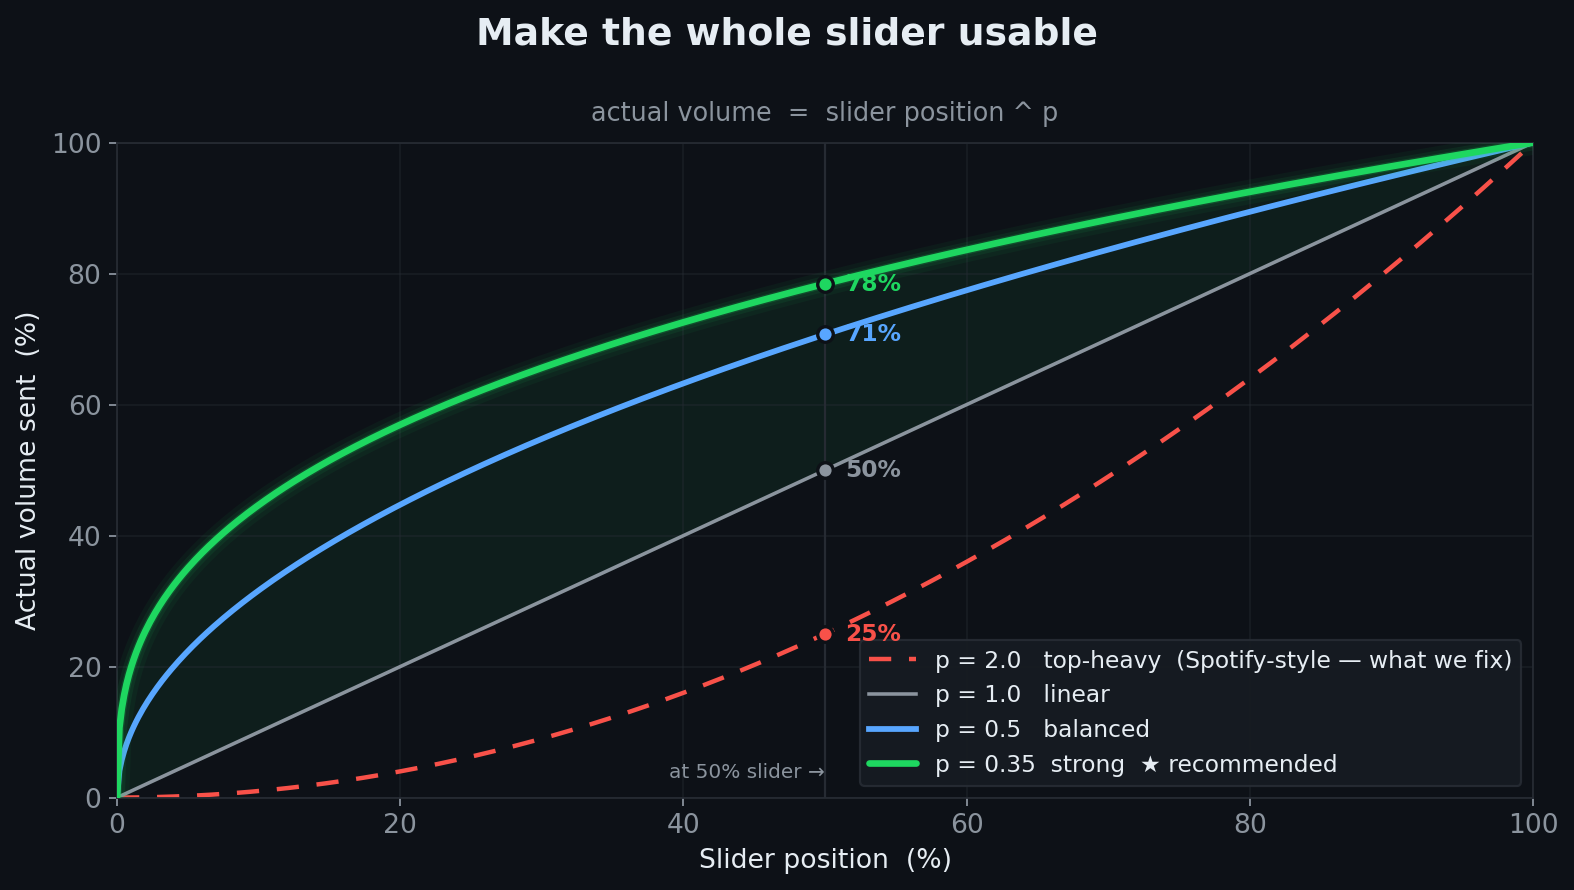
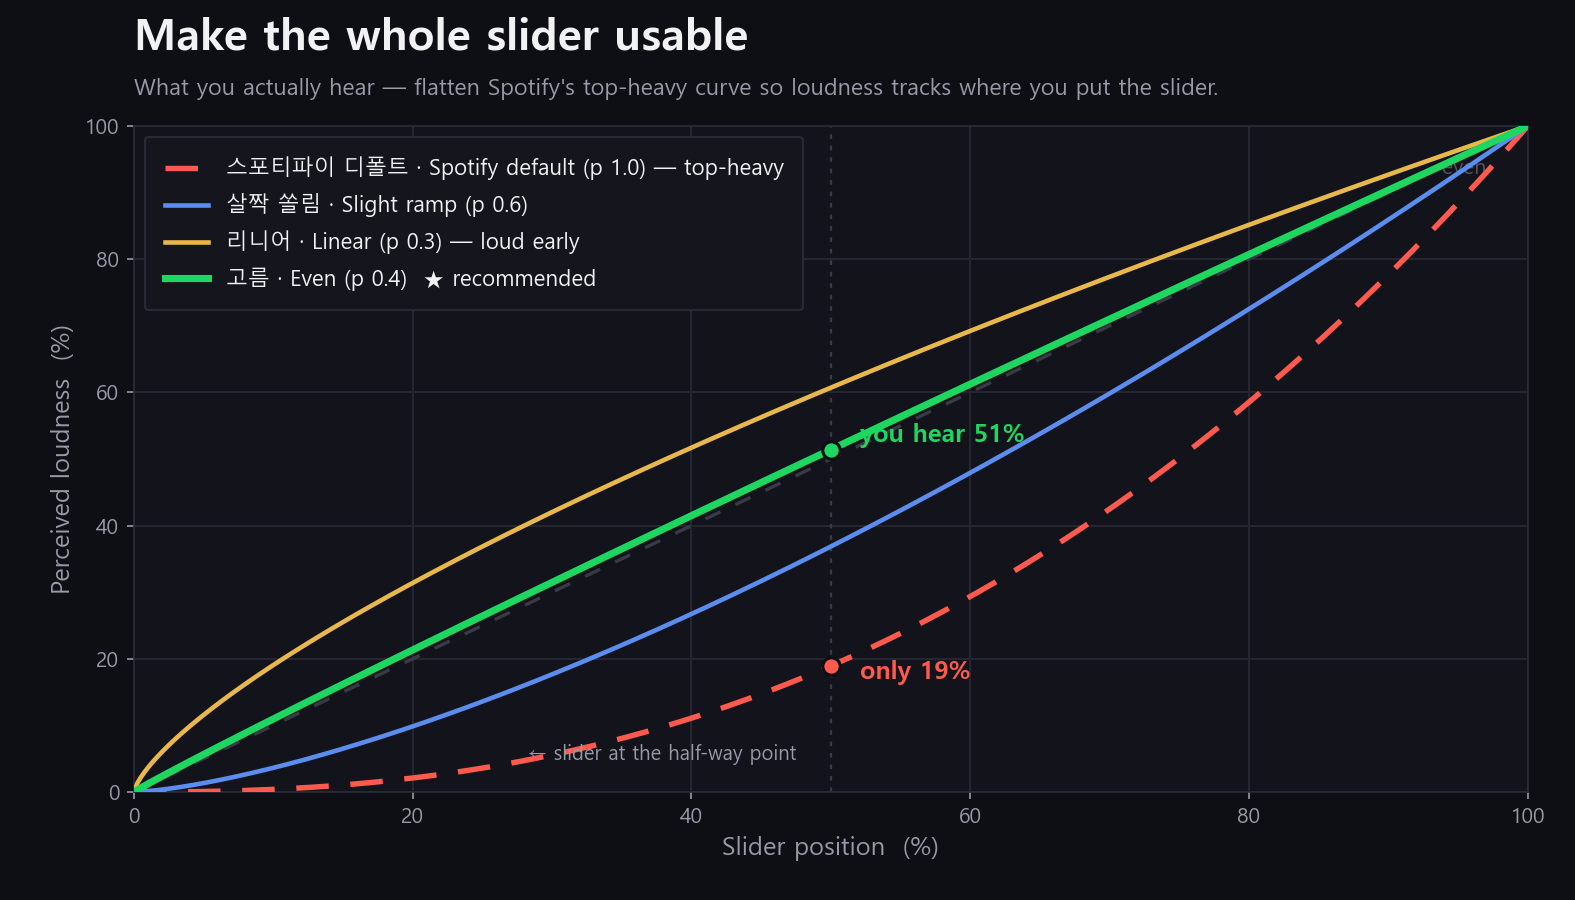
README: regenerate the curve chart and refresh the copy
- Redrew assets/curve.png from scratch (script kept at assets/curve.py). The
  old chart had the backwards/old labels (p=2.0 "Spotify-style", p=1.0
  "linear") and stale preset values. The new one plots perceived loudness for
  the current presets (리니어 0.3 / 고름 0.4 / 살짝 쏠림 0.6 / 스포티파이 디폴트 1.0),
  matching the in-app graph, and makes the point concrete: at the half-way
  slider you hear ~19% on Spotify's default vs ~51% on 고름.
- "Two ways to stick to Spotify (pick one)" → "use either, or both at once",
  since docking and the overlay are no longer mutually exclusive. Noted the
  green ring that marks the overlay knob as Volumify's.
- Smoothed the "how it works" paragraph around the 19% / 50% example.

diff --git a/assets/curve.py b/assets/curve.py
@@ -1,0 +1,91 @@
+# Regenerates assets/curve.png — the "Make the whole slider usable" chart in the READMEs.
+# Plots perceived loudness (= slider^(2.4*p)) for each preset, matching the in-app graph.
+# Run from the repo root:  python3 assets/curve.py   (needs matplotlib + numpy + a Korean font)
+import numpy as np
+import matplotlib
+matplotlib.use("Agg")
+import matplotlib.pyplot as plt
+from matplotlib import font_manager
+
+for fp in ["/mnt/c/Windows/Fonts/malgun.ttf", "/mnt/c/Windows/Fonts/malgunbd.ttf"]:
+    font_manager.fontManager.addfont(fp)
+plt.rcParams["font.family"] = "Malgun Gothic"
+plt.rcParams["axes.unicode_minus"] = False
+
+# ---- palette (matches the app) ----
+BG      = "#0e0e15"
+PANEL   = "#13131c"
+GRID    = "#26263200"  # transparent-ish; we draw grid manually
+GRIDC   = "#262630"
+TEXT    = "#f2f2f5"
+SUB     = "#9a9aa8"
+GREEN   = "#1ed760"   # Spotify green — the recommended "Even" preset
+AMBER   = "#e8b84b"   # Linear (loud early)
+BLUE    = "#5b8def"   # Slight ramp
+RED     = "#ff5a4d"   # Spotify default — the top-heavy problem we fix
+
+FELT = 2.4  # Spotify applies ~x^4 on top of what we send, so perceived loudness ~= position^(2.4*p)
+
+x = np.linspace(0, 1, 400)
+
+fig = plt.figure(figsize=(10.5, 6.0), dpi=150)
+fig.patch.set_facecolor(BG)
+ax = fig.add_axes([0.085, 0.12, 0.885, 0.74])
+ax.set_facecolor(PANEL)
+
+# manual faint grid
+for v in range(0, 101, 20):
+    ax.axhline(v, color=GRIDC, lw=1, zorder=0)
+    ax.axvline(v, color=GRIDC, lw=1, zorder=0)
+
+# even reference (perfect diagonal)
+ax.plot([0, 100], [0, 100], color="#3a3a46", lw=1.6, ls=(0, (5, 5)), zorder=1)
+ax.text(97, 92, "even", color="#55555f", fontsize=10, ha="right", va="bottom", style="italic")
+
+def felt(p):
+    return np.power(x, FELT * p) * 100
+
+# draw from least to most prominent
+ax.plot(x*100, felt(1.0), color=RED,   lw=2.6, ls=(0, (6, 4)), zorder=3,
+        label="스포티파이 디폴트 · Spotify default (p 1.0) — top-heavy")
+ax.plot(x*100, felt(0.6), color=BLUE,  lw=2.2, zorder=4,
+        label="살짝 쏠림 · Slight ramp (p 0.6)")
+ax.plot(x*100, felt(0.3), color=AMBER, lw=2.2, zorder=4,
+        label="리니어 · Linear (p 0.3) — loud early")
+ax.plot(x*100, felt(0.4), color=GREEN, lw=3.4, zorder=6,
+        label="고름 · Even (p 0.4)  ★ recommended")
+
+# the punchline: at the half-way slider, what do you actually hear?
+xs = 50
+ax.axvline(xs, color="#3a3a46", lw=1.1, ls=(0, (2, 3)), zorder=2)
+
+def marker(p, color, label, dx, dy, ha):
+    yv = (xs/100) ** (FELT * p) * 100
+    ax.scatter([xs], [yv], s=70, color=color, zorder=8, edgecolors=BG, linewidths=1.5)
+    ax.annotate(label, (xs, yv), textcoords="offset points", xytext=(dx, dy),
+                color=color, fontsize=12, fontweight="bold", ha=ha, va="center")
+
+marker(0.4, GREEN, "you hear 51%", 14, 7, "left")
+marker(1.0, RED,   "only 19%", 14, -3, "left")
+ax.text(xs-2.5, 4, "← slider at the half-way point", color=SUB, fontsize=9.5, ha="right", va="bottom")
+
+# titles
+fig.text(0.085, 0.945, "Make the whole slider usable", color=TEXT, fontsize=21, fontweight="bold")
+fig.text(0.085, 0.895, "What you actually hear — flatten Spotify's top-heavy curve so loudness tracks where you put the slider.",
+         color=SUB, fontsize=11)
+
+ax.set_xlim(0, 100); ax.set_ylim(0, 100)
+ax.set_xlabel("Slider position  (%)", color=SUB, fontsize=12)
+ax.set_ylabel("Perceived loudness  (%)", color=SUB, fontsize=12)
+ax.set_xticks(range(0, 101, 20)); ax.set_yticks(range(0, 101, 20))
+ax.tick_params(colors=SUB, labelsize=10)
+for s in ax.spines.values():
+    s.set_color("#2c2c38")
+
+leg = ax.legend(loc="upper left", frameon=True, fontsize=10.5,
+                facecolor="#16161f", edgecolor="#2c2c38", labelcolor=TEXT,
+                borderpad=0.9, labelspacing=0.6)
+leg.get_frame().set_alpha(0.95)
+
+fig.savefig("assets/curve.png", facecolor=BG)
+print("wrote assets/curve.png")

diff --git a/README.ko.md b/README.ko.md
@@ -42,7 +42,7 @@
 gain = x ^ p
 ```
 
-스포티파이 기본 곡선은 **위쪽에 쏠려** 있어서(≈ `x⁴` — 아래 절반은 거의 안 들리고 위쪽 20%가 대부분을 함), `p`가 **1보다 작으면** 그걸 펴줘요: 낮은 위치가 끌어올려져 슬라이더 전체가 쓸모 있어져요. **`p ≈ 0.4`면 체감 음량이 슬라이더에 비례(고름)**, `p = 1`은 스포티파이 그대로(위쪽 쏠림), `p`가 더 크면 오히려 더 나빠져요. 트레이나 패널의 **실시간 곡선 그래프**로 감으로 고르세요:
+스포티파이 기본 곡선은 **위쪽에 쏠려** 있어요(≈ `x⁴`): 슬라이더를 한가운데 둬도 실제로는 **19%**밖에 안 들려요. `p`가 **1보다 작으면** 그 쏠림을 펴줘요 — 아래쪽이 끌어올려져 슬라이더 전체가 쓸모 있어지죠. **`p ≈ 0.4`**면 한가운데가 **약 50%**로 들려서 체감 음량이 슬라이더 위치를 그대로 따라가요(고름). `p = 1`은 스포티파이 원본 그대로(위쪽 쏠림), 더 키우면 오히려 나빠져요. 트레이나 패널의 **실시간 곡선 그래프**로 감으로 고르세요:
 
 <div align="center"><img src="assets/curve.png" width="640" alt="스포티파이의 위쪽 쏠림을 펴서 슬라이더 전체를 쓸모 있게 만드는 거듭제곱 곡선"></div>
 
@@ -61,9 +61,9 @@ gain = x ^ p
 - 🔁 **양방향 동기화** — 스포티파이 자체 슬라이더(또는 미디어 키, 폰)를 움직이면 Volumify가 따라오고, Volumify를 움직이면 스포티파이가 따라와요. 항상 같이 움직여요.
 - 📱 **모든 기기에 동기화** — 스포티파이 자체 볼륨을 움직이니 폰과 Connect 스피커도 함께 와요 (OS 전용 게인 아님).
 - 🌐 **English & 한국어** — 첫 실행 때 Windows 언어를 자동 감지하고, 트레이에서 언제든 전환할 수 있어요.
-- 🧲 **스포티파이에 붙이는 두 가지 방식** (택1):
-  - **오버레이** — 네이티브 레일 위의 얇은 바. 레일이 너무 작아지면 뜨는 **호버 팝업** 옵션 포함.
-  - **컴팩트 독** — 스포티파이 창을 따라다니는 작은 패널.
+- 🧲 **스포티파이에 붙는 두 가지 방식** — 따로 써도, 둘 다 켜도 돼요:
+  - **오버레이** — 네이티브 레일 위에 얹히는 얇은 바 (초록 링으로 스포티파이 게 아니라 Volumify 것임을 표시). 레일이 너무 작아지면 뜨는 **호버 팝업** 옵션 포함.
+  - **독 패널** — 곡선 패널이 스포티파이 창 옆에 붙어서 따라다녀요.
 - 💾 **설정 기억** (`%APPDATA%\SpotifyLinearVolume\settings.json`) + **Windows 시작 시 자동 실행** 옵션.
 - 📦 **단일 자체 포함 `.exe`** — 설치 관리자도, 챙길 런타임도 없음.
 

diff --git a/README.md b/README.md
@@ -42,7 +42,7 @@ You see one slider; the app remaps it. Move it to position `x` (0–1) and it se
 gain = x ^ p
 ```
 
-Spotify's built‑in curve is **top‑heavy** (≈ `x⁴` — the bottom half is barely audible and the top ~20% does most of the work), so a `p` **below 1** flattens it: the low slider positions get lifted until the whole slider is usable. **`p ≈ 0.4` makes the perceived loudness track the slider evenly**; `p = 1` leaves Spotify's raw top‑heavy feel; higher `p` only makes it worse. Pick by feel from the tray or the panel's **live curve graph**:
+Spotify's built‑in curve is **top‑heavy** (≈ `x⁴`): park the slider at the half‑way point and you only *hear* about **19%**. A `p` **below 1** flattens that out — it lifts the low end so the whole slider becomes usable. At **`p ≈ 0.4`** the half‑way point sounds like **~50%**, so loudness tracks right where you put the slider; `p = 1` is Spotify's raw top‑heavy default, and higher only makes it worse. Pick by feel from the tray or the panel's **live curve graph**:
 
 <div align="center"><img src="assets/curve.png" width="640" alt="A power curve flattening Spotify's top-heavy response so the whole slider becomes usable"></div>
 
@@ -61,9 +61,9 @@ Spotify's built‑in curve is **top‑heavy** (≈ `x⁴` — the bottom half is
 - 🔁 **Two‑way sync** — move Spotify's own slider (or a media key, or your phone) and Volumify follows; move Volumify and Spotify follows. Everything stays in step.
 - 📱 **Syncs to every device** — it moves Spotify's own volume, so your phone and Connect speakers come along (no separate OS‑only gain).
 - 🌐 **English & 한국어** — auto‑detects your Windows language on first run; switch anytime from the tray.
-- 🧲 **Two ways to stick to Spotify** (pick one):
-  - **Overlay** — a slim bar right on the native rail, with an optional **hover fly‑out** that appears only when the rail gets too small to drag.
-  - **Compact dock** — a small panel that follows the Spotify window.
+- 🧲 **Two ways to ride along with Spotify** — use either, or both at once:
+  - **Overlay** — a slim bar right on the native rail (a green ring marks it as Volumify's, not Spotify's), with an optional **hover fly‑out** that appears only when the rail gets too small to drag.
+  - **Docked panel** — the curve panel snaps beside the Spotify window and follows it around.
 - 💾 **Remembers everything** (`%APPDATA%\SpotifyLinearVolume\settings.json`) and optional **run at startup**.
 - 📦 **Single self‑contained `.exe`** — no installer, no runtime to chase.
 